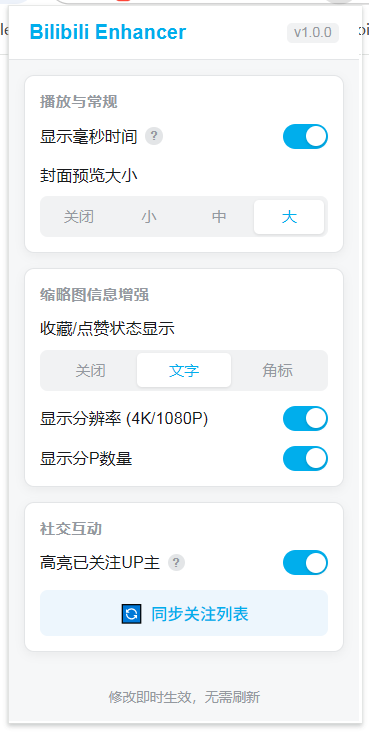
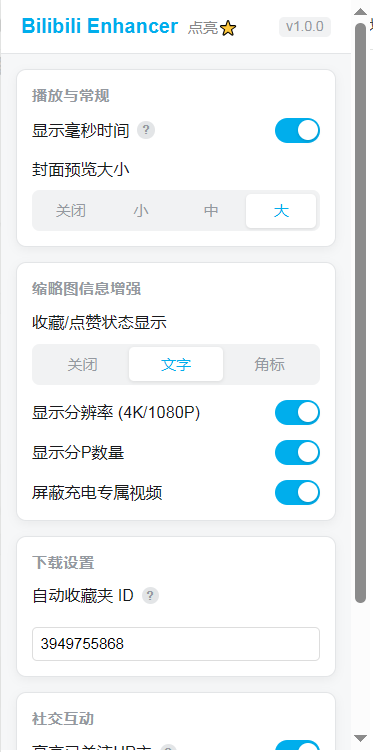
新增功能说明更新

diff --git a/README.md b/README.md
@@ -6,18 +6,19 @@
 
 基于 TypeScript 和 Manifest V3 开发的 Chrome 浏览器扩展，全方位提升 Bilibili 网页版的使用体验。
 
-它集成了 **缩略图信息增强**、**封面工具箱**、**播放器增强** 以及 **社交关系辅助** 四大核心模块。
+它集成了 **缩略图信息增强**、**封面工具箱**、**播放器增强**、**社交关系辅助** 以及 **视频下载与自动化** 五大核心模块。
 
 ---
 
 ## ✨ 核心功能 (Features)
 
-### 1. 🏷 视频缩略图增强 (New!)
+### 1. 🏷 视频缩略图增强
 在浏览首页、推荐列表或个人空间时，直接在视频封面上显示关键信息，**无需点击**即可掌握视频状态。
 
 * **状态标记**：自动检测并显示你对该视频的 **“已收藏”** 或 **“已点赞”** 状态。
 * **样式切换**：支持 **文字标签** 或 **三角角标** 两种风格，切换时**即时生效**无需刷新。
 * **视频信息**：显示视频 **分辨率** (4K/1080P) 和 **分P数量**。
+* **屏蔽充电专属**：自动识别并隐藏推荐流中的“充电专属”视频卡片，净化浏览体验。
 * **智能加载**：仅请求可视区域内的视频数据，流畅不卡顿。
 
 > **效果预览：**
@@ -55,6 +56,11 @@
 >
 > ![关注高亮效果展示](docs/images/highlight-user.png)
 
+### 5. 🚀 视频下载与自动化
+打通视频下载与收藏的闭环工作流。
+* **联动视频下载**：无缝对接 [Bilibili Downloader](https://github.com/kingvamp/bilibili-downloader) 扩展，支持快捷调用进行视频解析与下载。
+* **下载后自动收藏**：支持在设置面板自定义配置 **收藏夹 ID**。当视频下载完成后，插件会自动将其加入该指定收藏夹，实现全自动归档。
+
 ---
 
 ## ⚙ 设置面板
@@ -70,6 +76,7 @@
 > <div align="center">
 >   <img src="docs/images/settings-panel.png" width="300" alt="现代化设置面板" />
 > </div>
+
 ---
 
 ## 🛠 安装与开发
@@ -79,17 +86,3 @@
 2.  打开 Chrome 扩展管理页 `chrome://extensions/`。
 3.  开启右上角 **"开发者模式"**。
 4.  点击 **"加载已解压的扩展程序"**，选择 `dist` 目录。
-
-### 本地开发
-```bash
-# 1. 克隆项目
-git clone [https://github.com/你的用户名/bilibili-enhancer.git](https://github.com/你的用户名/bilibili-enhancer.git)
-
-# 2. 安装依赖
-npm install
-
-# 3. 开启监听模式 (修改代码自动重新打包)
-npm run watch
-
-# 4. 构建生产版本
-npm run build
